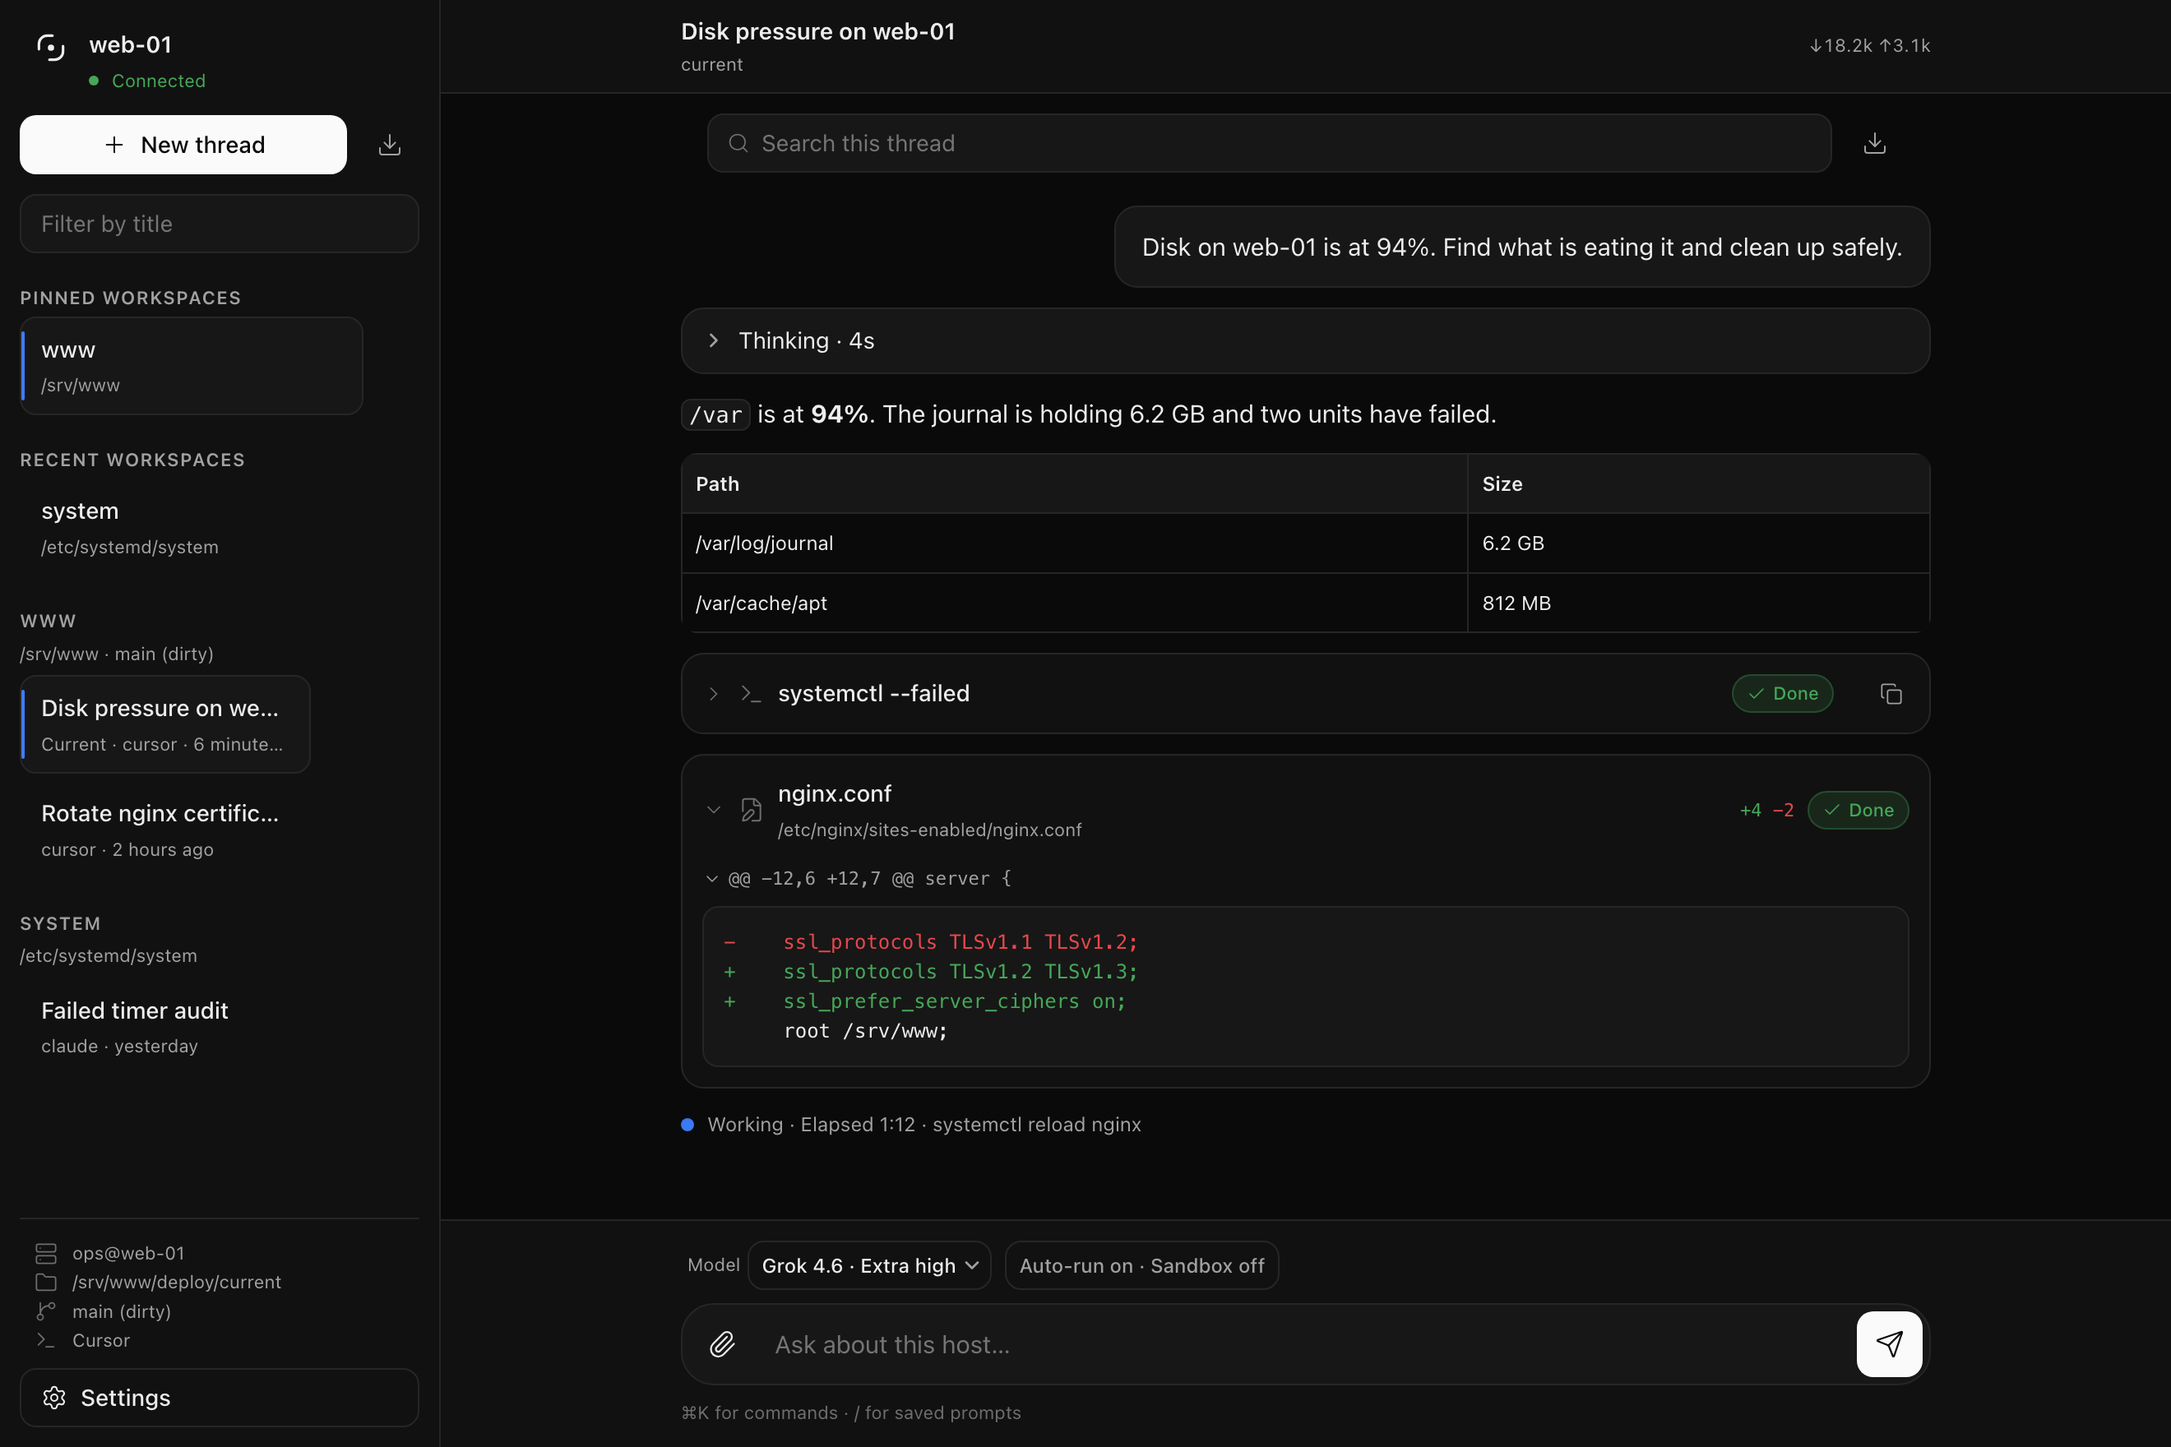
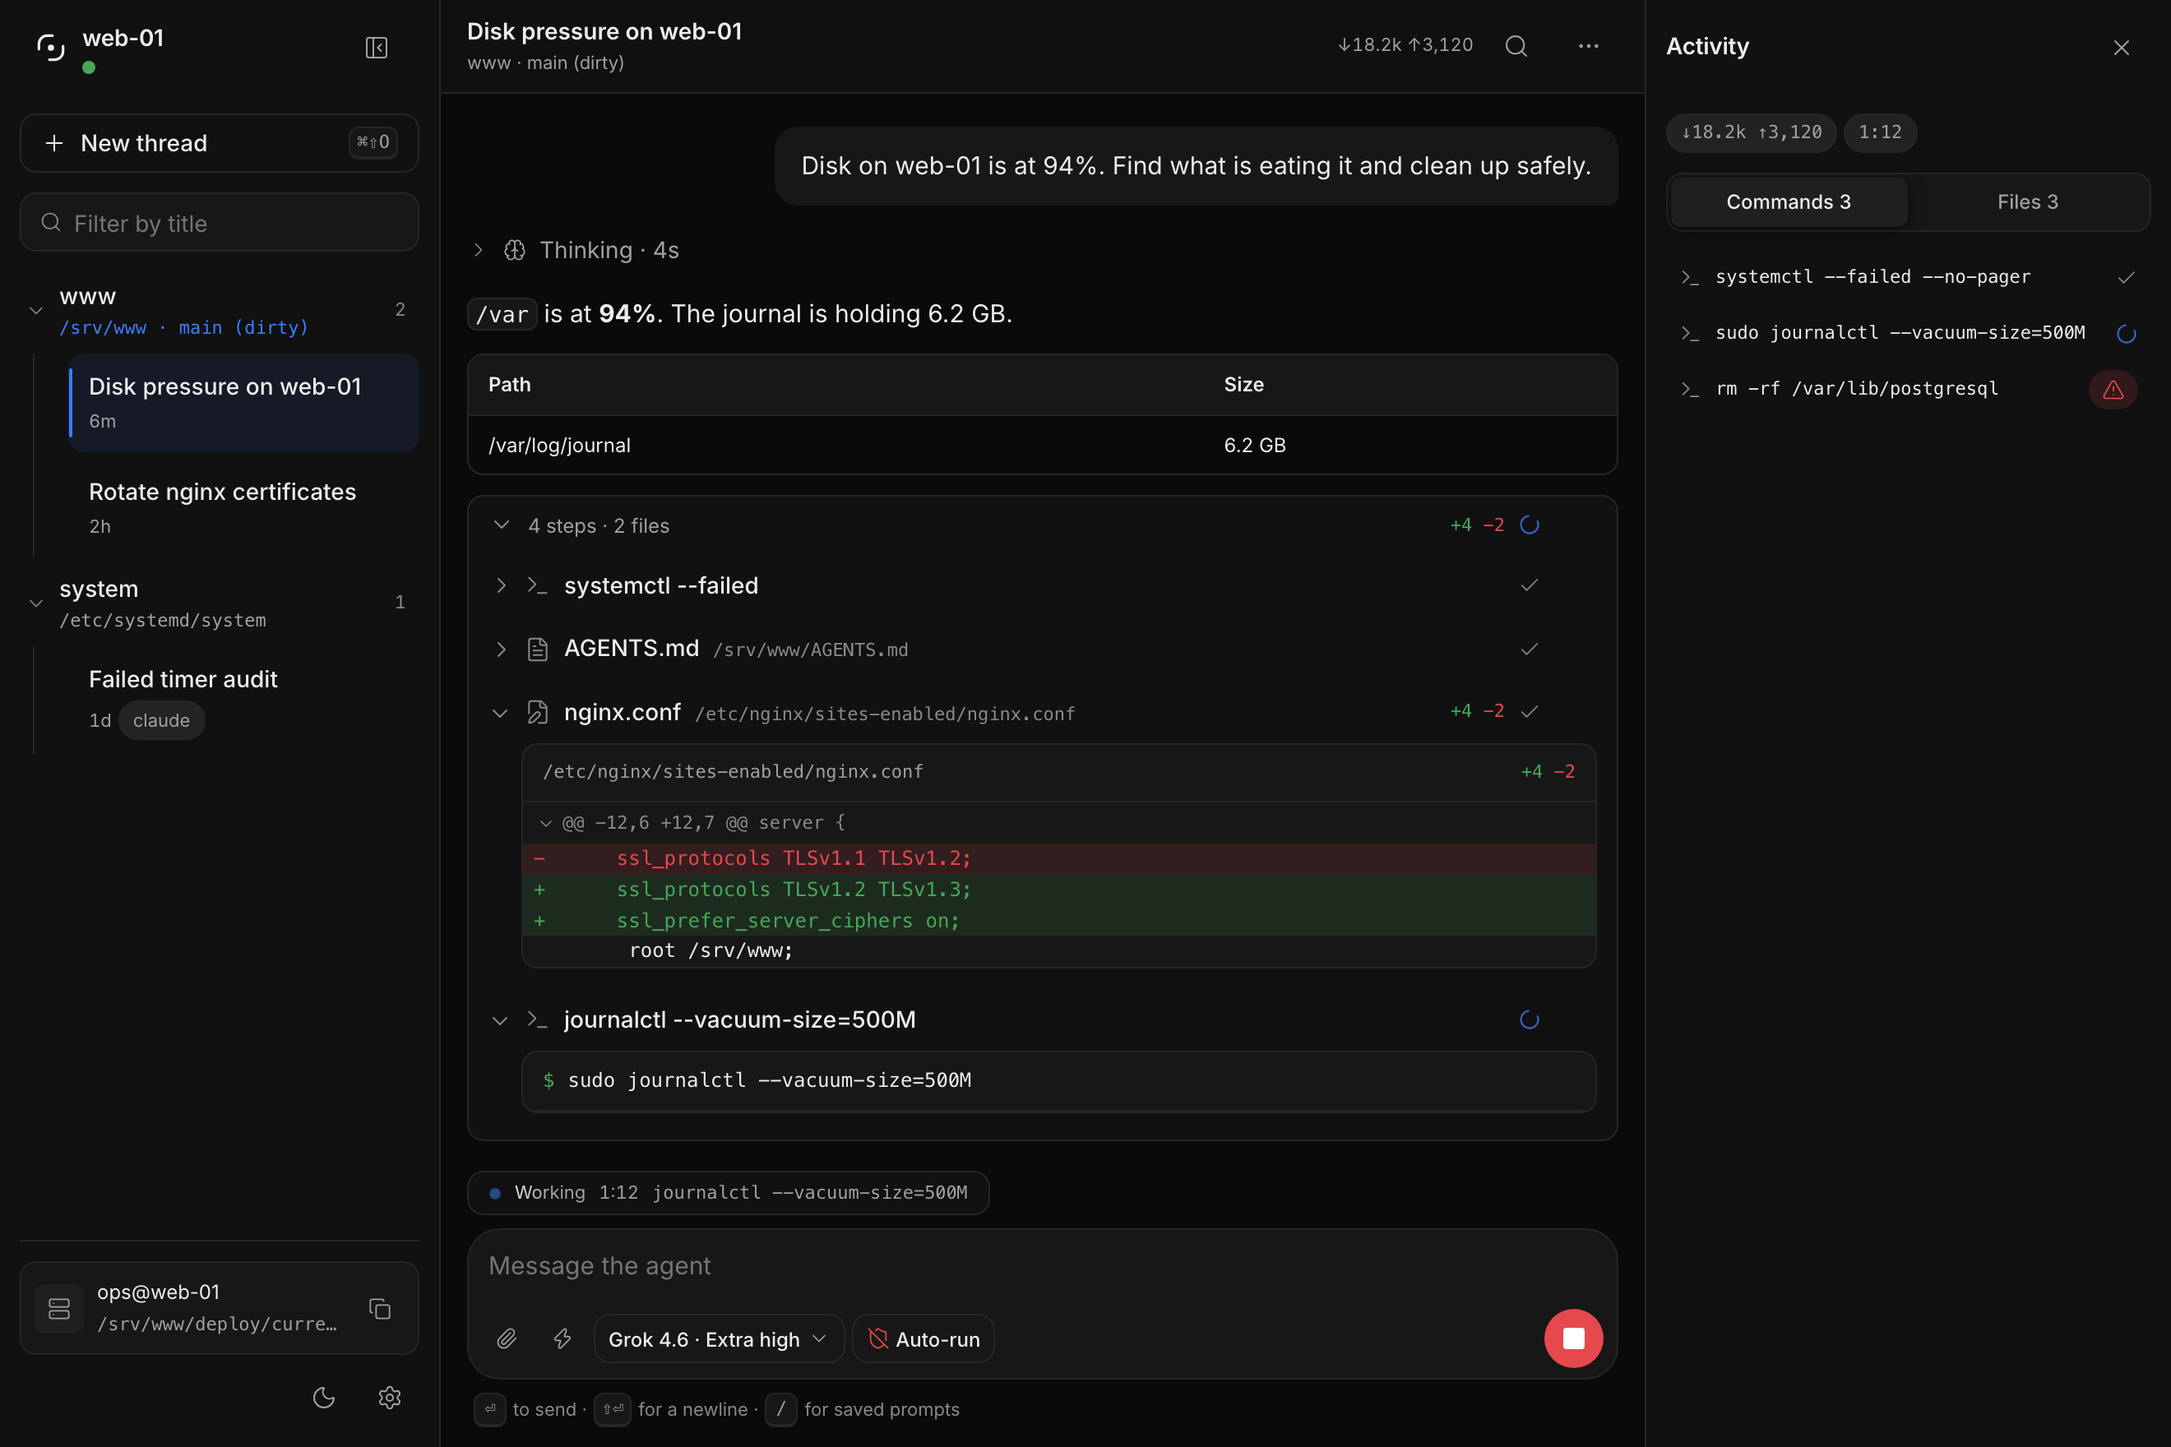
Retake the README screenshots, and fix what the 2x capture showed
Both screenshots in docs/assets showed the previous interface. They now come
from the gallery's new ?shot=desktop and ?shot=phone modes, captured at 2x with
real device emulation over the DevTools protocol: headless Chrome will not
size a window below about 500px, so a --window-size phone capture silently
rendered at 500 and cropped to 390.

Looking at them at full size turned up four things the scaled-down checks had
missed:

- Every assistant answer had a 40px hole under it. The copy button was
  invisible until hover but still in the flow; it now overlays the answer's
  corner.
- A tool group's totals ended 38px right of its rows' state column, with the
  spinner off to the left of the title. The group head now carries the same
  tail as a row — stats, state, action slot — so both line up by construction.
- "4  steps" had two spaces: a flex gap plus the text's own.
- On a 390px phone the composer bar truncated both chips to "Grok 4.6 · E…"
  and "Aut…". Below 640px the model chip drops the effort and the permission
  chip keeps only its shield; both stay in the tooltip and the menu. The saved
  prompts button stops using ⌘, for the same reason the tab bar did.

The release checklist had drifted too: Denied pills, a transcript toolbar with Export,
a disabled Save button and a Commands tab no longer exist. It describes what
ships now and adds checks for Activity, the collapsed rail and folded runs.

diff --git a/web/src/gallery.tsx b/web/src/gallery.tsx
@@ -83,7 +83,7 @@ const transcriptBlocks = [
 const threadProps = {
   threads: threads as never, currentId: "t1", locale: "en", busy: false, waiting: false,
   onSwitch: () => {}, onDelete: () => {}, onRename: async () => {},
-  git: host.git, currentCwd: "/srv/www", pins: ["/srv/www"], recents: ["/etc/systemd/system"],
+  git: host.git, currentCwd: "/srv/www", currentAdapter: "cursor", pins: ["/srv/www"], recents: ["/etc/systemd/system"],
   onOpenCwd: () => {}, onPin: () => {}, onUnpin: () => {},
 };
 
@@ -103,6 +103,12 @@ const tools: ToolBlock[] = [
   { id: "s6", kind: "tool", toolKind: "grep", title: "TLSv1.1", path: "/etc/nginx", status: "error",
     error: "grep: /etc/nginx/private: Permission denied" },
 ] as ToolBlock[];
+
+/* The transcript the shells and the README screenshots render. */
+const runBlocks = [
+  ...(transcriptBlocks as never[]),
+  ...(tools.slice(0, 4) as unknown as never[]),
+];
 
 const activityBlocks = [
   ...(tools as unknown as never[]),
@@ -131,9 +137,22 @@ function Frame({ width, height, children }: { width: number | string; height: nu
   );
 }
 
-function ChatShell({ mobile, empty, mini }: { mobile?: boolean; empty?: boolean; mini?: boolean }) {
+function ChatShell({
+  mobile,
+  empty,
+  mini,
+  inspector,
+}: {
+  mobile?: boolean;
+  empty?: boolean;
+  mini?: boolean;
+  inspector?: boolean;
+}) {
   return (
-    <div className={`app-shell${mobile ? "" : mini ? " has-mini-rail" : " has-rail"}`} style={{ height: "100%" }}>
+    <div
+      className={`app-shell${mobile ? "" : mini ? " has-mini-rail" : " has-rail"}${inspector ? " has-inspector" : ""}`}
+      style={{ height: "100%" }}
+    >
       {!mobile && (
         <Sidebar spaceName="web-01" statusClass="connected" statusLabel="Connected" host={host}
           threads={threadProps} onNew={() => {}} onSettings={() => {}} onCopyFailed={() => {}}
@@ -151,7 +170,7 @@ function ChatShell({ mobile, empty, mini }: { mobile?: boolean; empty?: boolean;
                       : <span className="host-context muted truncate">www · main (dirty)</span>}
             </div>
             <div className="top-actions">
-              {!mobile && <span className="muted usage-chip">↓18.2k ↑3.1k</span>}
+              {!mobile && <span className="muted usage-chip">↓18.2k ↑3,120</span>}
               <button type="button" className="icon-btn" aria-label="Search"><IconSearch /></button>
               <button type="button" className="icon-btn" aria-label="More"><IconMore /></button>
             </div>
@@ -161,8 +180,8 @@ function ChatShell({ mobile, empty, mini }: { mobile?: boolean; empty?: boolean;
           <div className="transcript">
             <div className="transcript-inner">
               <Transcript
-                blocks={empty ? [] : (transcriptBlocks as never)}
-                allBlocks={empty ? [] : (transcriptBlocks as never)}
+                blocks={empty ? [] : (runBlocks as never)}
+                allBlocks={empty ? [] : (runBlocks as never)}
                 snapshotReady
                 connecting={false}
                 search=""
@@ -219,12 +238,13 @@ function ChatShell({ mobile, empty, mini }: { mobile?: boolean; empty?: boolean;
                 <span className="pulse" aria-hidden />
                 <span className="status-shimmer">Working</span>
                 <span className="muted nums">1:12</span>
-                <span className="muted truncate status-step">systemctl reload nginx</span>
+                <span className="muted truncate status-step">journalctl --vacuum-size=500M</span>
               </div>
             ) : null
           }
         />
       </div>
+      {inspector && <ActivityPanel blocks={activityBlocks as never} locale="en" duration="1:12" onClose={() => {}} />}
       {mobile && <BottomNav active="chat" onSelect={() => {}} />}
     </div>
   );
@@ -410,6 +430,21 @@ function toggleTheme() {
 document.documentElement.dataset.theme = new URLSearchParams(location.search).get("t") === "light" ? "light" : "dark";
 document.documentElement.style.colorScheme = document.documentElement.dataset.theme;
 
+/**
+ * `?shot=desktop` and `?shot=phone` render a single shell edge to edge. The
+ * README screenshots in docs/assets are captured from these, at 2x:
+ *   Chrome --headless --window-size=1320,880 --force-device-scale-factor=2
+ */
+const shot = new URLSearchParams(location.search).get("shot");
+
 createRoot(document.getElementById("root")!).render(
-  <I18nProvider locale="en"><div className="app"><Gallery /></div></I18nProvider>,
+  shot === "desktop" || shot === "phone" ? (
+    <I18nProvider locale="en">
+      <div className="app">
+        {shot === "desktop" ? <ChatShell inspector /> : <ChatShell mobile />}
+      </div>
+    </I18nProvider>
+  ) : (
+    <I18nProvider locale="en"><div className="app"><Gallery /></div></I18nProvider>
+  ),
 );

diff --git a/web/src/styles.css b/web/src/styles.css
@@ -1454,16 +1454,22 @@ button.host-copy:hover { color: var(--text); }
   font-size: var(--fs-chat);
 }
 /* The turn's own actions, revealed on hover rather than parked in the layout. */
+/* Out of the flow: an invisible button in the flow left a 40px hole under
+   every answer. It overlays the answer's top-right corner on hover instead. */
 .turn-foot {
-  display: flex;
-  justify-content: flex-end;
-  margin-top: var(--s-1);
+  position: absolute;
+  top: calc(var(--s-1) * -1);
+  right: 0;
+  border-radius: var(--r-md);
+  background: var(--bg);
+  box-shadow: var(--e-1);
   opacity: 0;
+  pointer-events: none;
   transition: opacity var(--dur) var(--ease);
 }
 .bubble.assistant:hover .turn-foot,
-.turn-foot:focus-within { opacity: 1; }
-@media (hover: none) { .turn-foot { opacity: 1; } }
+.turn-foot:focus-within { opacity: 1; pointer-events: auto; }
+@media (hover: none) { .turn-foot { display: none; } }
 mark {
   background: color-mix(in srgb, var(--warn) 34%, transparent);
   color: inherit;
@@ -1625,7 +1631,7 @@ mark {
 }
 .tool-state svg { width: var(--icon-sm); height: var(--icon-sm); }
 .tool-state.running { color: var(--accent); }
-.tool-state.running svg, .spin { animation: spin 1s linear infinite; }
+.tool-state.running svg { animation: spin 1s linear infinite; }
 .tool-state.error, .tool-state.denied {
   color: var(--danger);
   padding: 0 var(--s-2);
@@ -1642,13 +1648,15 @@ mark {
   overflow: hidden;
 }
 .tool-group.failed { border-color: color-mix(in srgb, var(--danger) 40%, var(--stroke)); }
+.tool-group-row { padding-right: var(--s-2); }
 .tool-group-head {
   display: flex;
   align-items: center;
   gap: var(--s-2);
-  width: 100%;
+  flex: 1;
+  min-width: 0;
   min-height: var(--row-h);
-  padding: var(--s-2) var(--s-3);
+  padding: var(--s-2) 0 var(--s-2) var(--s-3);
   border: 0;
   background: transparent;
   color: var(--muted);
@@ -1660,11 +1668,12 @@ mark {
 .tool-group-head:hover { background: var(--hover-bg); }
 .tool-group-head .tool-chevron { transition: transform var(--dur) var(--ease); }
 .tool-group.open .tool-group-head .tool-chevron { transform: rotate(90deg); }
-.tool-group-title { display: flex; align-items: center; gap: var(--s-2); flex: 1; min-width: 0; }
-.tool-group-title svg { width: var(--icon-sm); height: var(--icon-sm); color: var(--accent); }
-.tool-group-body { display: grid; gap: var(--s-1); padding: 0 var(--s-1) var(--s-1); }
-.tool-group-body .tool { border-color: transparent; background: transparent; }
-.tool-group-body .tool:hover { border-color: var(--stroke); }
+.tool-group-title { flex: 1; min-width: 0; overflow: hidden; text-overflow: ellipsis; white-space: nowrap; }
+/* Rows inside a group are flush with its edges, so every tail shares one x. */
+.tool-group-body { display: grid; gap: 0; padding-bottom: var(--s-1); }
+.tool-group-body .tool { border: 0; border-radius: 0; background: transparent; }
+/* A failed group only says so once it is folded; open, its rows speak. */
+.tool-group.open > .tool-group-row .tool-state.error { display: none; }
 
 .shell-out, .preview {
   margin: 0;
@@ -1980,6 +1989,14 @@ mark {
 .chip-btn.risk-warn svg { color: var(--warn); }
 .chip-btn.risk-danger svg { color: var(--danger); }
 .model-chip { display: flex; min-width: 0; }
+/* A phone has room for the model's name and the shield, not for the effort
+   and the word beside the shield; both stay in the tooltip and the menu. */
+@media (max-width: 640px) {
+  .chip-variant { display: none; }
+  .chip-btn.risk-ok .chip-label,
+  .chip-btn.risk-warn .chip-label,
+  .chip-btn.risk-danger .chip-label { display: none; }
+}
 .pop-list { list-style: none; margin: 0; padding: 0; display: grid; gap: var(--s-05); }
 .picker-check { position: absolute; right: var(--s-2); top: 50%; transform: translateY(-50%); color: var(--accent); }
 .picker-check svg { width: var(--icon-sm); height: var(--icon-sm); }

diff --git a/web/src/components/ToolCard.tsx b/web/src/components/ToolCard.tsx
@@ -98,26 +98,36 @@ export function ToolGroup({
 
   return (
     <section className={`tool-group${open ? " open" : ""}${failed ? " failed" : ""}`}>
-      <button
-        type="button"
-        className="tool-group-head"
-        aria-expanded={open}
-        onClick={() => setUserOpen((v) => !(v ?? open))}
-      >
-        <span className="tool-chevron" aria-hidden="true">
-          <IconChevronRight />
-        </span>
-        <span className="tool-group-title">
-          {running ? <IconSpinner className="spin" /> : null}
-          <span className="nums">{blocks.length}</span> {t("tool.steps")}
-          {files > 0 ? ` · ${files} ${t("tool.files")}` : ""}
-        </span>
-        {add || del ? (
-          <span className="stats">
-            <span className="add">+{add}</span> <span className="del">−{del}</span>
+      {/* The head carries the same tail as a row — stats, state, action slot —
+          so the group's totals and state sit in the rows' own columns. */}
+      <div className="tool-row tool-group-row">
+        <button
+          type="button"
+          className="tool-group-head"
+          aria-expanded={open}
+          onClick={() => setUserOpen((v) => !(v ?? open))}
+        >
+          <span className="tool-chevron" aria-hidden="true">
+            <IconChevronRight />
           </span>
-        ) : null}
-      </button>
+          <span className="tool-group-title nums">
+            {blocks.length} {t("tool.steps")}
+            {files > 0 ? ` · ${files} ${t("tool.files")}` : ""}
+          </span>
+        </button>
+        <span className="tool-tail">
+          {add || del ? (
+            <span className="stats">
+              <span className="add">+{add}</span> <span className="del">−{del}</span>
+            </span>
+          ) : null}
+          <ToolState
+            status={running ? "running" : failed ? "error" : "done"}
+            label={running ? t("tool.running") : failed ? t("tool.error") : t("tool.done")}
+          />
+          <span className="tool-action" />
+        </span>
+      </div>
       {open && (
         <div className="tool-group-body">
           {blocks.map((b) => (

diff --git a/web/src/components/ModelMenu.tsx b/web/src/components/ModelMenu.tsx
@@ -77,10 +77,13 @@ export function ModelMenu({
         className="ghost tiny chip-btn"
         aria-expanded={open}
         aria-label={t("chat.model")}
-        title={adapterName ? `${adapterName} · ${t("chat.model")}` : t("chat.model")}
+        title={[adapterName, modelChipLabel(selected, params, modelId)].filter(Boolean).join(" · ")}
         onClick={() => setOpen((v) => !v)}
       >
-        <span className="truncate">{modelChipLabel(selected, params, modelId)}</span>
+        <span className="truncate">
+          {selected?.displayName || selected?.id || modelId}
+          {variant ? <span className="chip-variant"> · {variant.displayName}</span> : null}
+        </span>
         <IconChevronDown />
       </button>
       <Popover open={open} onClose={() => setOpen(false)} label={t("chat.model")} side="top" align="start" wide>

diff --git a/web/src/components/PermissionChip.tsx b/web/src/components/PermissionChip.tsx
@@ -69,11 +69,12 @@ export function PermissionChip({
         className={`ghost tiny chip-btn risk-${tone}`}
         aria-expanded={open}
         aria-controls="permission-chip-pop"
+        aria-label={sandboxPart ? `${label} · ${sandboxPart}` : label}
         title={sandboxPart ? `${label} · ${sandboxPart}` : label}
         onClick={() => setOpen((v) => !v)}
       >
         {glyph}
-        <span className="truncate">{label}</span>
+        <span className="truncate chip-label">{label}</span>
       </button>
       <Popover
         open={open}

diff --git a/web/src/components/Composer.tsx b/web/src/components/Composer.tsx
@@ -20,8 +20,8 @@ import {
   IconArrowUp,
   IconAttach,
   IconClose,
-  IconCommand,
   IconStop,
+  IconZap,
 } from "./Icon";
 
 export type ComposerProps = {
@@ -272,7 +272,7 @@ export function Composer(props: ComposerProps) {
               title={t("palette.title")}
               onClick={onPalette}
             >
-              <IconCommand />
+              <IconZap />
             </button>
             {caps?.models !== false && (
               <ModelMenu

diff --git a/README.md b/README.md
@@ -35,11 +35,11 @@
 </p>
 
 <p align="center">
-  <img src="./docs/assets/chat.png" alt="Glassys on the desktop: thread rail, thinking, tool cards, and a diff" width="100%">
+  <img src="./docs/assets/chat.png" alt="Glassys on the desktop: workspace rail, a run folded into grouped steps with a diff, the composer, and the Activity panel" width="100%">
 </p>
 
 <p align="center">
-  <img src="./docs/assets/mobile.png" alt="Glassys on a phone: the same thread with a bottom tab bar" width="270">
+  <img src="./docs/assets/mobile.png" alt="Glassys on a phone: the same run, the composer bar, and the bottom tab bar" width="270">
 </p>
 
 <a id="english"></a>
